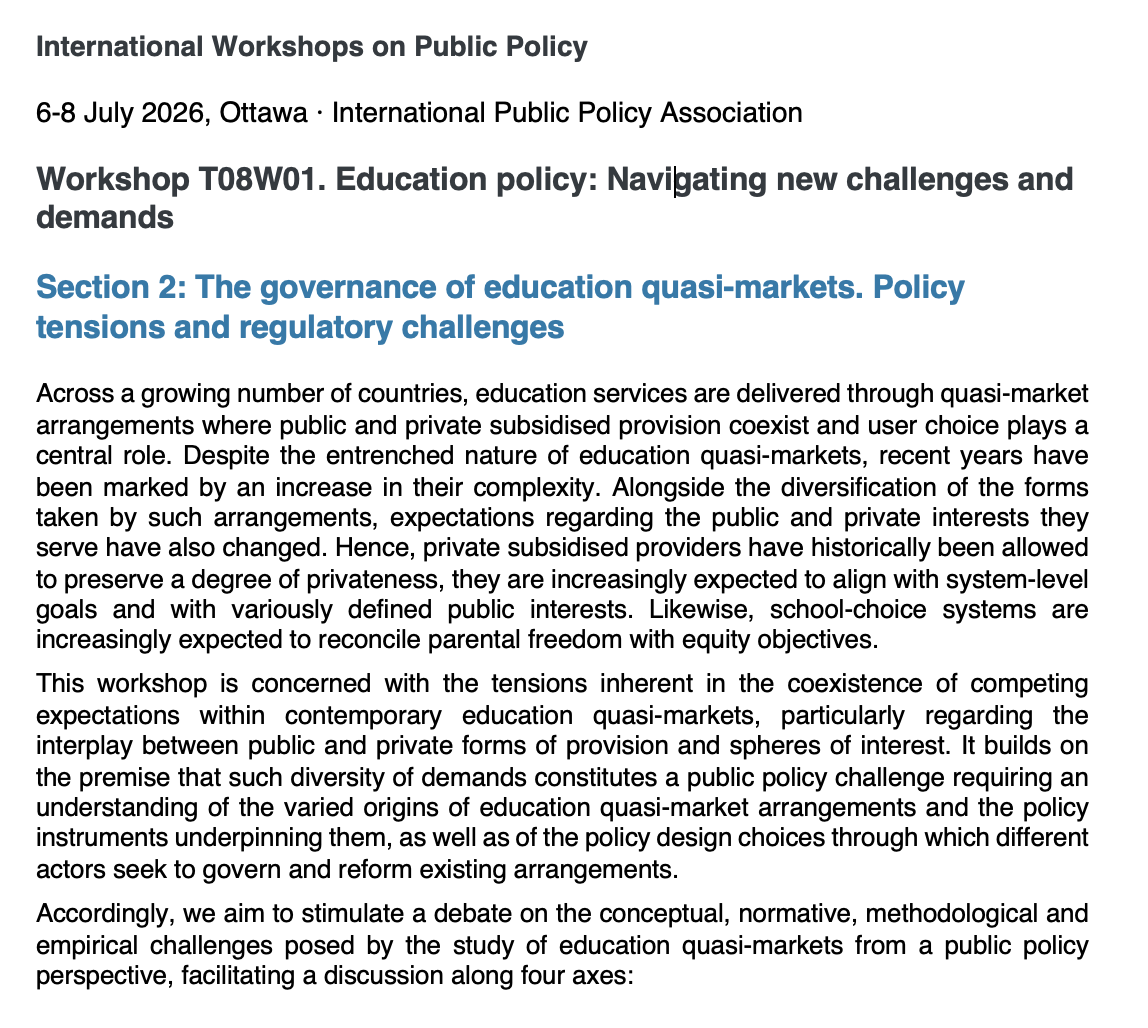
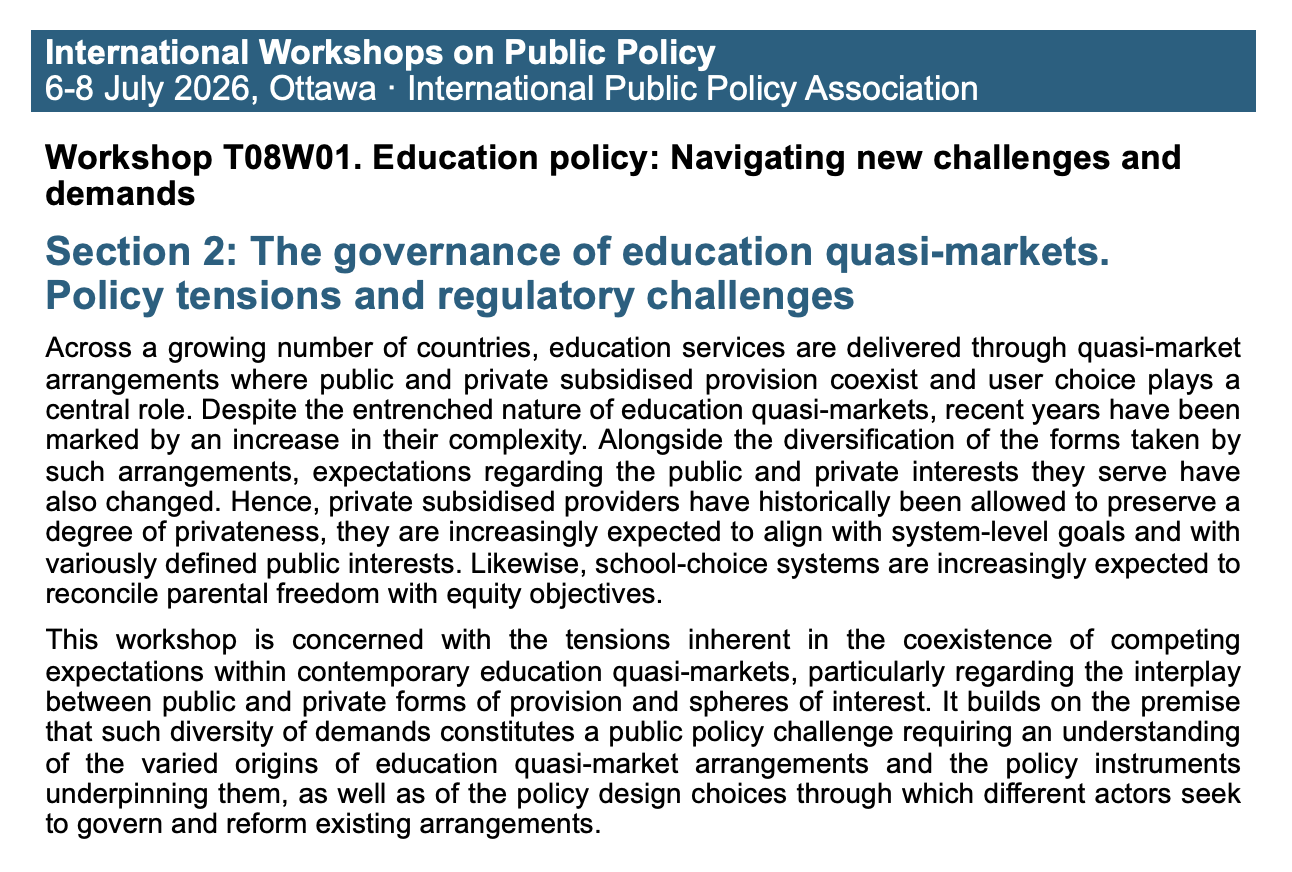
10

diff --git a/docs/index.html b/docs/index.html
@@ -72,8 +72,8 @@ ul.task-list li input[type="checkbox"] {
 <meta property="og:description" content="">
 <meta property="og:image" content="https://clarafontdevila.github.io/IWPP_0802/IWPP26_Preview.png">
 <meta property="og:site_name" content="IWPP_0802">
-<meta property="og:image:height" content="1028">
-<meta property="og:image:width" content="1148">
+<meta property="og:image:height" content="872">
+<meta property="og:image:width" content="1292">
 </head>
 
 <body class="quarto-light">
@@ -90,6 +90,10 @@ ul.task-list li input[type="checkbox"] {
 
 
 
+<style>
+  #title-block-header { display: none; }  /* Hides the empty title space */
+  #quarto-content { margin-top: 0; padding-top: 0; } /* Removes top page padding */
+</style>
 <section id="international-workshops-on-public-policy" class="level4">
 <h4 data-anchor-id="international-workshops-on-public-policy"><strong>International Workshops on Public Policy</strong></h4>
 <p>6-8 July 2026, Ottawa · International Public Policy Association</p>

diff --git a/docs/about.html b/docs/about.html
@@ -72,8 +72,8 @@ ul.task-list li input[type="checkbox"] {
 <meta property="og:description" content="">
 <meta property="og:image" content="https://clarafontdevila.github.io/IWPP_0802/IWPP26_Preview.png">
 <meta property="og:site_name" content="IWPP_0802">
-<meta property="og:image:height" content="1028">
-<meta property="og:image:width" content="1148">
+<meta property="og:image:height" content="872">
+<meta property="og:image:width" content="1292">
 </head>
 
 <body class="fullcontent quarto-light">
